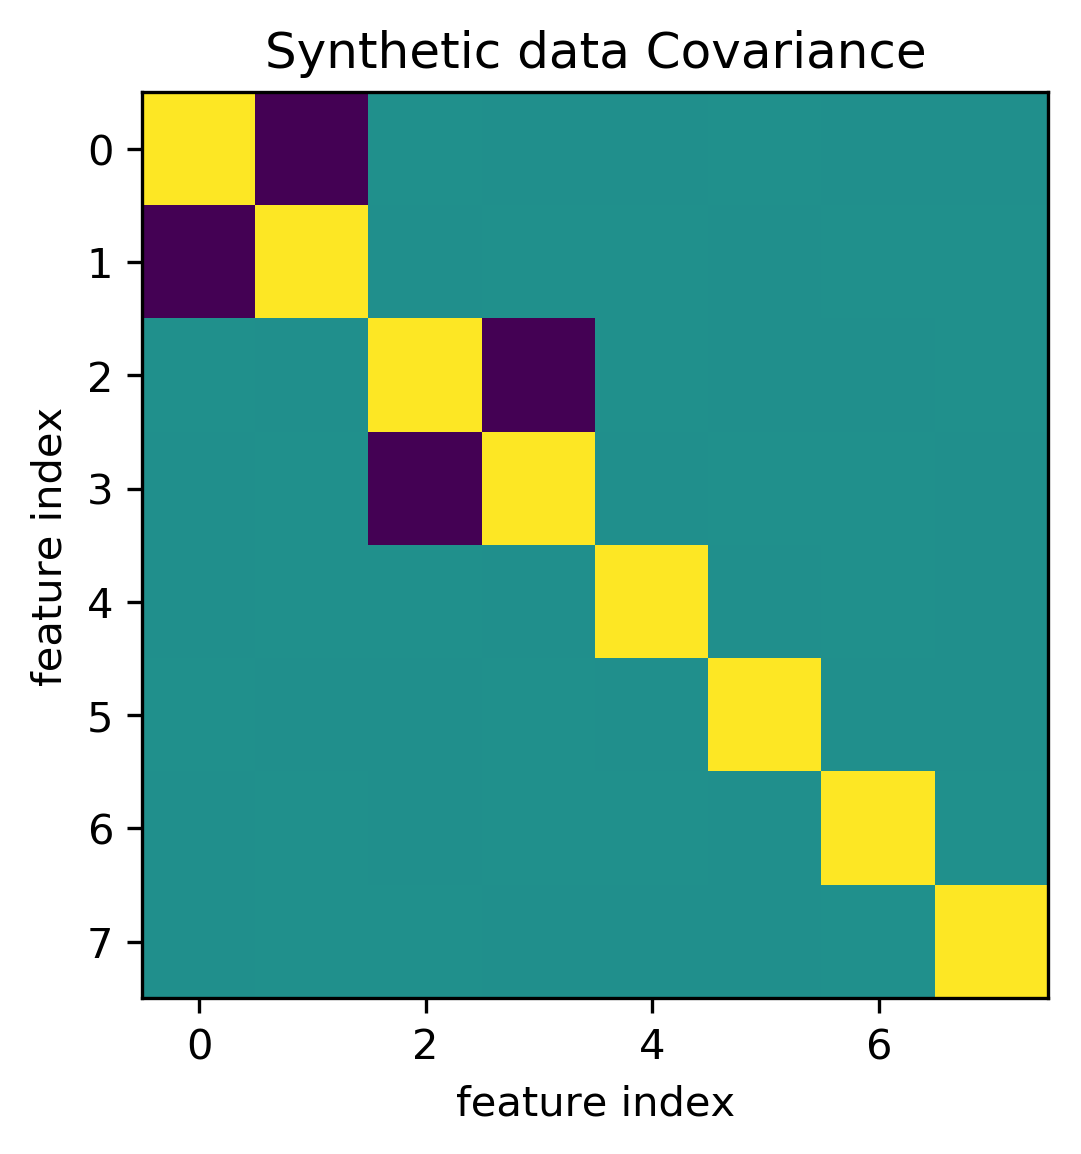
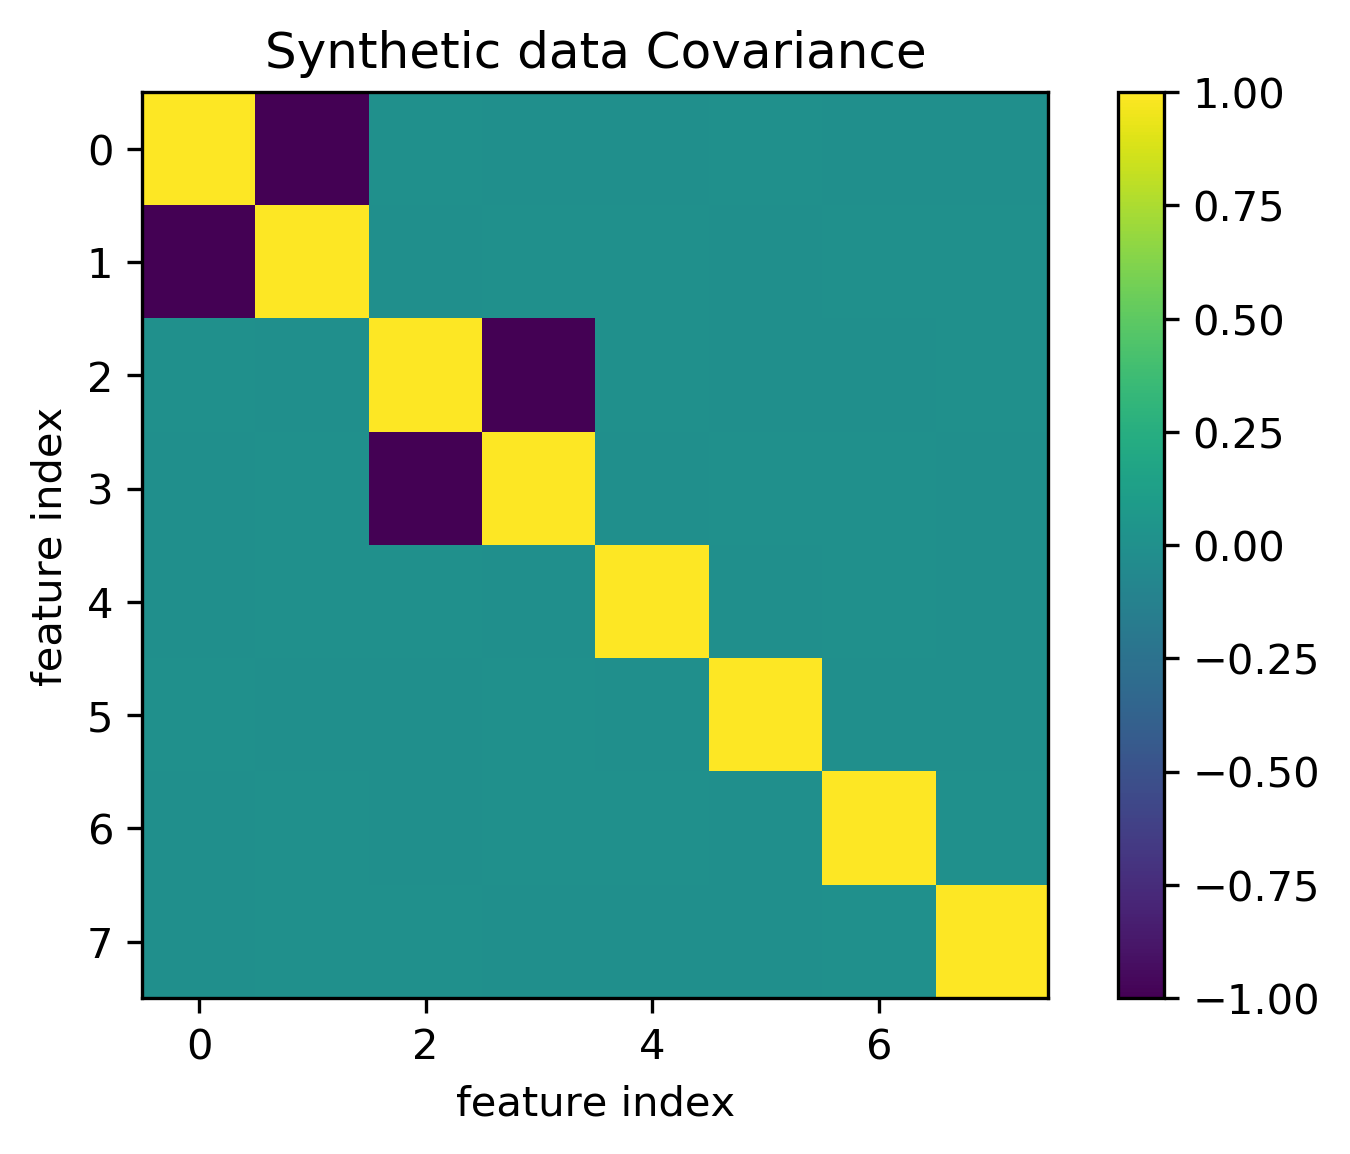
fix colorbar for correlation

diff --git a/slides/aml-11-interpretation-feature-selection/index.html b/slides/aml-11-interpretation-feature-selection/index.html
@@ -34,11 +34,11 @@ of other Python libraries that help doing these two things.
 FIXME random forest code is confusing because I tried to
 simplify it. Also: we haven't seen those yet?!
 
+FIXME explain when and how to interpret coeffients
 FIXME mutual information needs better explanation
 FIXME lasso show random between correlated, same for tree, compare to RF
 FIXME IceBOX example with cross?
 FIXME should be two lectures really!
-FIXME correlation matrix for toy data color bar
 FIXME maybe drop shap and shaply
 FIXME better explanation for ice-box and partial dependence
 FIXME partial dependence definitely needs a process diagram
@@ -126,8 +126,6 @@ def permutation_importance(est, X, y, n_bootstrap=100):
 
 - Applied on validation set given trained estimator.
 - Also kinda slow.
-- Implementation: ELI5,<br> https://github.com/scikit-learn/scikit-learn/pull/13146
-- For RF: https://github.com/parrt/random-forest-importances (uses oob)
 ---
 # LIME
 .smaller[
